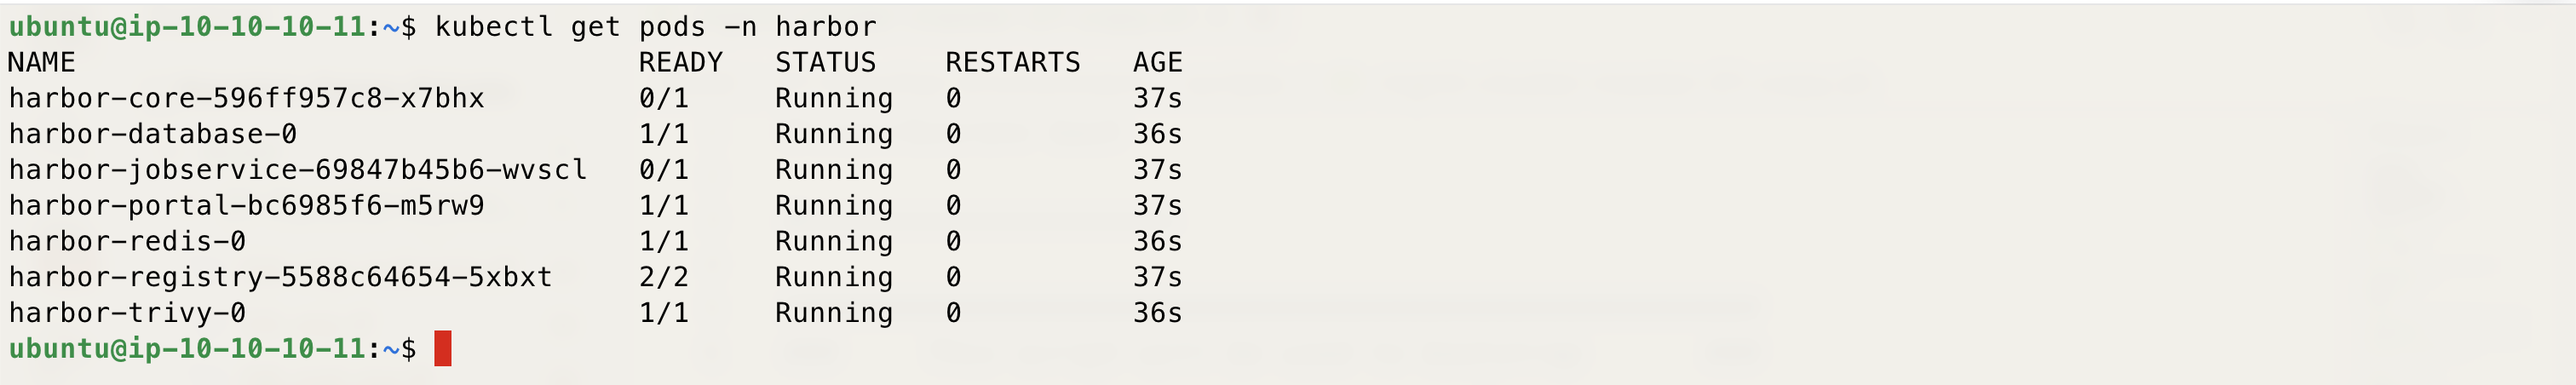
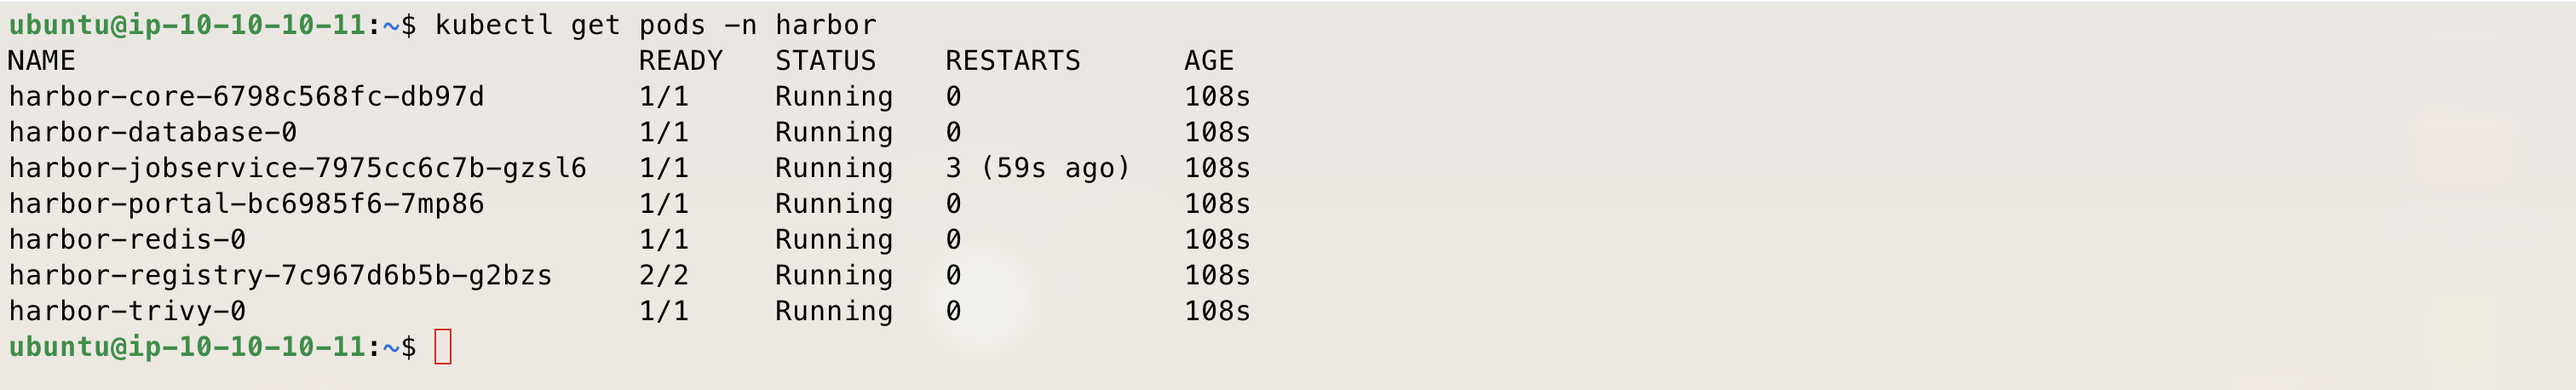
FC

diff --git a/Prep/README.MD b/Prep/README.MD
@@ -190,6 +190,8 @@ Restarting `containerd` briefly interrupts `kubectl logs`/`exec` connections to 
 
 Browse to `https://${HARBOR_HOST}` (your browser will warn about the self-signed certificate — that's expected, proceed past it). Log in as `admin` / the password in `HARBOR_PASSWORD`.
 
+![harbor-ui](/Prep/Image/harbor-ui.png)
+
 Log the bastion's Docker client in too, ready for whichever demo needs to push images:
 
 ```bash
